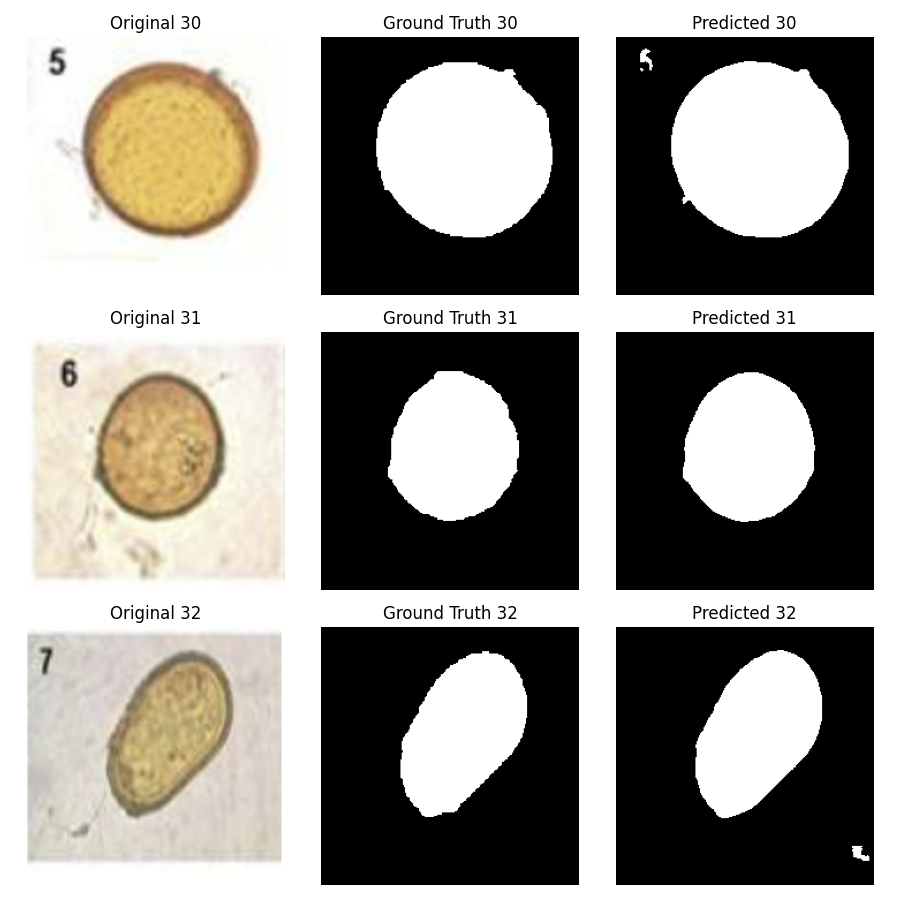
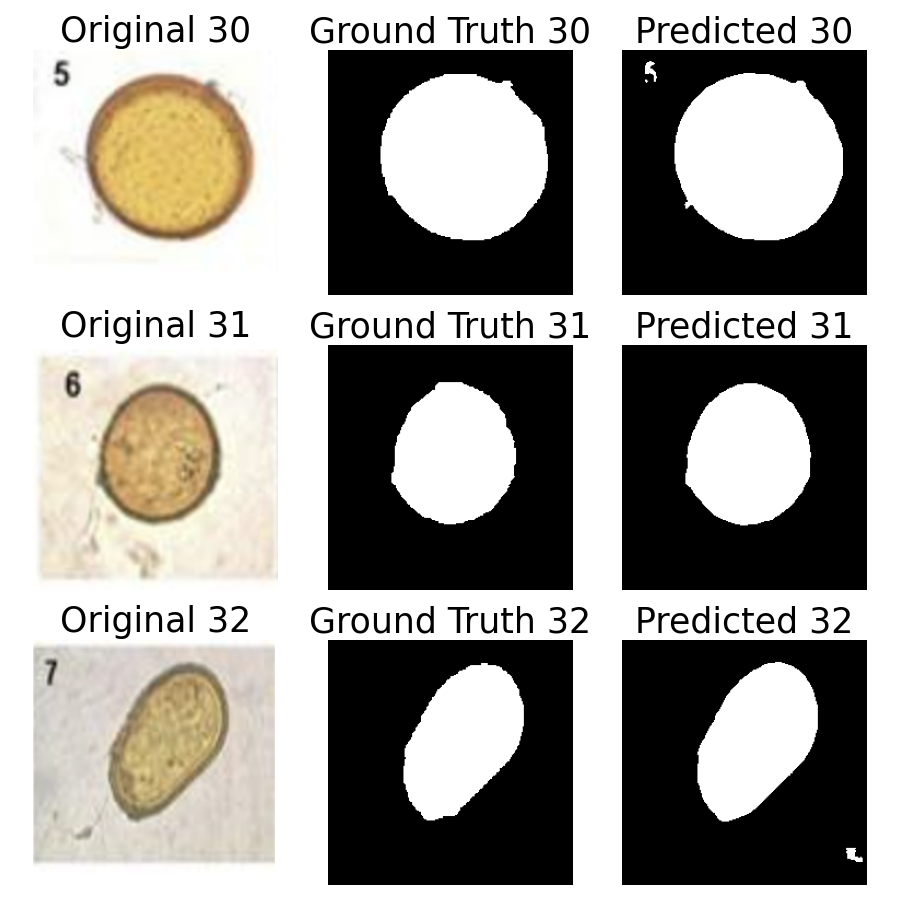
unet_test changes

diff --git a/test_unet.py b/test_unet.py
@@ -65,17 +65,17 @@ for idx, (image, mask) in enumerate(val_loader):
         for i in range(3):
             # Imagen Original
             axes[i, 0].imshow(images_to_plot[i])
-            axes[i, 0].set_title(f'Original {plot_counter * 3 + i}')
+            axes[i, 0].set_title(f'Original {plot_counter * 3 + i}', fontsize=25)
             axes[i, 0].axis('off')
 
             # Máscara Ground Truth
             axes[i, 1].imshow(masks_gt_to_plot[i], cmap='gray') # Asumiendo máscara binaria
-            axes[i, 1].set_title(f'Ground Truth {plot_counter * 3 + i}')
+            axes[i, 1].set_title(f'Ground Truth {plot_counter * 3 + i}', fontsize=25)
             axes[i, 1].axis('off')
 
             # Máscara Predicha
             axes[i, 2].imshow(masks_pred_to_plot[i], cmap='gray') # Asumiendo máscara binaria
-            axes[i, 2].set_title(f'Predicted {plot_counter * 3 + i}')
+            axes[i, 2].set_title(f'Predicted {plot_counter * 3 + i}', fontsize=25 )
             axes[i, 2].axis('off')
 
         plt.tight_layout()
@@ -101,15 +101,15 @@ if len(images_to_plot) > 0:
 
     for i in range(len(images_to_plot)):
         axes[i, 0].imshow(images_to_plot[i])
-        axes[i, 0].set_title(f'Original {plot_counter * 3 + i}')
+        axes[i, 0].set_title(f'Original {plot_counter * 3 + i}', fontsize=25)
         axes[i, 0].axis('off')
 
         axes[i, 1].imshow(masks_gt_to_plot[i], cmap='gray')
-        axes[i, 1].set_title(f'Ground Truth {plot_counter * 3 + i}')
+        axes[i, 1].set_title(f'Ground Truth {plot_counter * 3 + i}', fontsize=25)
         axes[i, 1].axis('off')
 
         axes[i, 2].imshow(masks_pred_to_plot[i], cmap='gray')
-        axes[i, 2].set_title(f'Predicted {plot_counter * 3 + i}')
+        axes[i, 2].set_title(f'Predicted {plot_counter * 3 + i}', fontsize=25)
         axes[i, 2].axis('off')
 
     plt.tight_layout()
